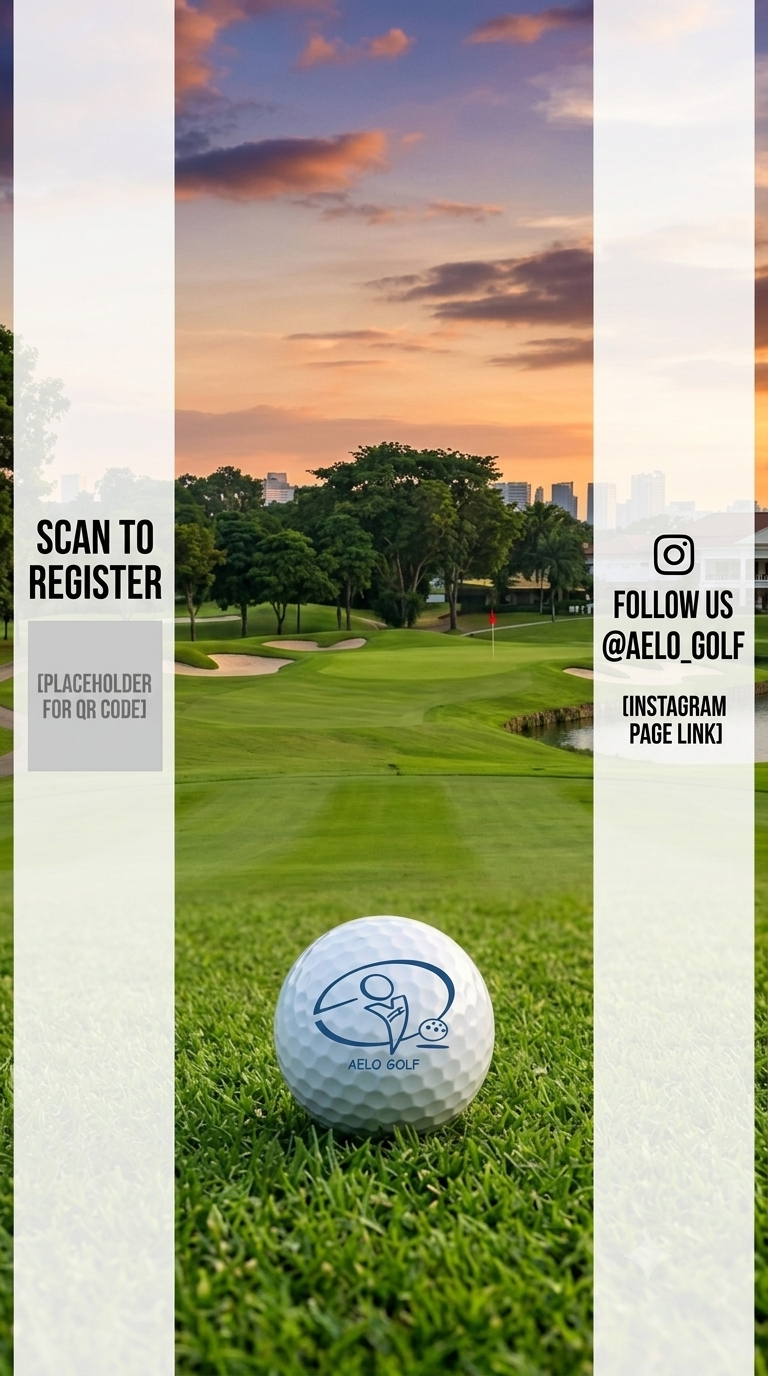
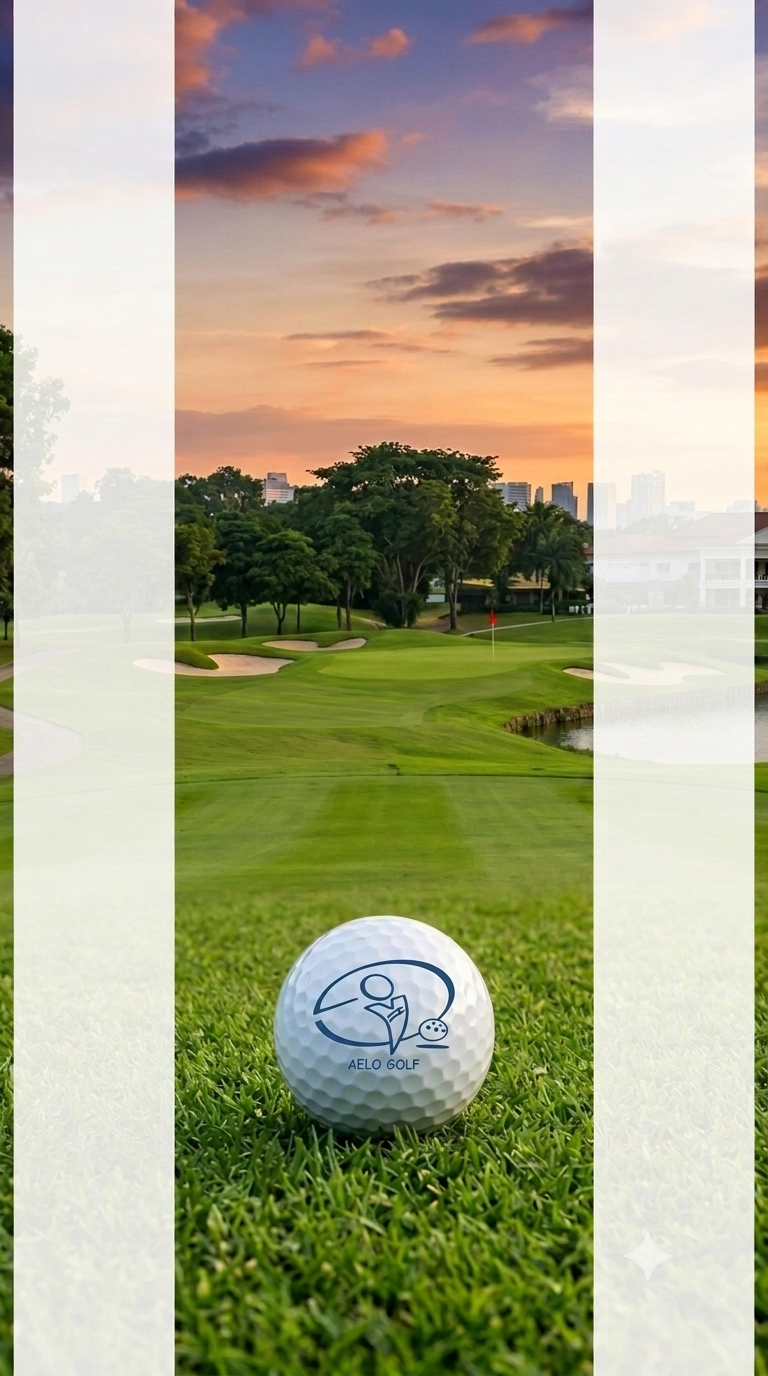
update side panels, background images, and countdown font colour.

Changed region(s): [[0.0312, 0.375, 0.2188, 0.5625], [0.7812, 0.375, 0.9688, 0.5625]]

diff --git a/index.html b/index.html
@@ -134,10 +134,10 @@
             font-size: 1.2rem;
             font-weight: 700;
             letter-spacing: 5px;
-            color: #FFD700; /* Sunset Gold */
+            color: #ffffff; 
             margin-top: 10px;
             text-transform: uppercase;
-            text-shadow: 0 0 8px rgba(255, 215, 0, 0.6);
+            text-shadow: 2px 2px 6px rgba(0, 0, 0, 0.9), 0 0 15px rgba(0, 0, 0, 0.5);
         }
 
         /* Accelerated pulsing kinetic speed loop */
@@ -149,6 +149,99 @@
                 text-shadow: 0 0 12px #fff, 0 0 25px rgba(255, 215, 0, 1), 0 0 40px rgba(255, 215, 0, 0.8);
             }
         }
+
+       /* --- 📝 SIDE COLUMNS FRAMEWORK --- */
+        .side-panel {
+            position: absolute;
+            top: 50%; /* Centers vertically */
+            transform: translateY(-50%);
+            width: 25%; /* Fits perfectly inside your white transparent columns */
+            display: flex;
+            flex-direction: column;
+            align-items: center;
+            text-align: center;
+            z-index: 10;
+        }
+
+        .left-panel {
+            left: 0;
+        }
+
+        .right-panel {
+            right: 0;
+        }
+
+        /* Bold, condensed text matching your reference */
+        .column-text-left {
+            font-family: "Impact", "Arial Black", "Segoe UI Black", sans-serif;
+            font-size: clamp(1.5rem, 3vw, 1.2rem);
+            line-height: 1.05;
+            color: #000000;
+            letter-spacing: 0.5px;
+        }
+        /* Different font sizing for left and right column text */
+        .column-text-right {
+            font-family: "Impact", "Arial Black", "Segoe UI Black", sans-serif;
+            font-size: clamp(1rem, 3vw, 1.1rem);
+            line-height: 1.05;
+            color: #000000;
+            letter-spacing: 0.5px;
+        }
+
+        /* --- ⬅️ LEFT COLUMN STYLES --- */
+ 
+
+        .register-link-group {
+            display: flex;
+            flex-direction: column;
+            align-items: center;
+            text-decoration: none; 
+            color: inherit;
+            cursor: pointer;
+            transition: transform 0.2s ease;
+        }
+
+        .register-link-group:hover {
+            transform: scale(1.05); /* Slight pop effect on hover */
+        }
+
+        .register-icon {
+            width: clamp(45px, 7vw, 65px);
+            height: clamp(45px, 7vw, 65px);
+            margin-top: 12px;
+            fill: none;
+            stroke: #000000;
+            stroke-width: 2;
+            stroke-linecap: round;
+            stroke-linejoin: round;
+        }
+
+        /* --- ➡️ RIGHT COLUMN STYLES --- */
+        .insta-link-group {
+            display: flex;
+            flex-direction: column;
+            align-items: center;
+            text-decoration: none; /* Removes the default blue underline from links */
+            color: inherit;
+            cursor: pointer;
+            transition: transform 0.2s ease;
+        }
+
+        .insta-link-group:hover {
+            transform: scale(1.05); /* Slight pop effect on hover */
+        }
+
+        .insta-icon {
+            width: clamp(40px, 6vw, 60px);
+            height: clamp(40px, 6vw, 60px);
+            margin-bottom: 12px;
+            fill: none;
+            stroke: #000000;
+            stroke-width: 2;
+            stroke-linecap: round;
+            stroke-linejoin: round;
+        }
+
     </style>
 </head>
 <body>
@@ -166,6 +259,39 @@
         <div class="counter-overlay-box">
             <h1 class="dynamic-number" id="days-count">--</h1>
             <p class="dynamic-label" id="days-label">Days To Go</p>
+        </div>
+
+        <!-- ⬅️ LEFT COLUMN: Registration -->
+        <div class="side-panel left-panel">
+            <a href="https://form.gov.sg/6a424307fb2b9992c94bbd02" target="_blank" rel="noopener noreferrer" class="register-link-group">
+
+                <div class="column-text-left">REGISTER<br>HERE!</div>
+            
+                <!-- SVG Clipboard/Form Icon -->
+                <svg xmlns="http://www.w3.org/2000/svg" viewBox="0 0 24 24" class="register-icon">
+                    <path d="M14 2H6a2 2 0 0 0-2 2v16a2 2 0 0 0 2 2h12a2 2 0 0 0 2-2V8z"></path>
+                    <polyline points="14 2 14 8 20 8"></polyline>
+                    <line x1="16" y1="13" x2="8" y2="13"></line>
+                    <line x1="16" y1="17" x2="8" y2="17"></line>
+                    <polyline points="10 9 9 9 8 9"></polyline>
+                </svg>
+
+            </a>
+        </div>
+
+        <!-- ➡️ RIGHT COLUMN: Instagram -->
+        <div class="side-panel right-panel">
+            <!-- Clickable Instagram Group -->
+            <a href="https://www.instagram.com/aelo_golf?igsh=MXRjaXR4MDBrcWNkZw==" target="_blank" rel="noopener noreferrer" class="insta-link-group">
+                <!-- SVG Instagram Icon -->
+                <svg xmlns="http://www.w3.org/2000/svg" viewBox="0 0 24 24" class="insta-icon">
+                    <rect x="2" y="2" width="20" height="20" rx="5" ry="5"></rect>
+                    <path d="M16 11.37A4 4 0 1 1 12.63 8 4 4 0 0 1 16 11.37z"></path>
+                    <line x1="17.5" y1="6.5" x2="17.51" y2="6.5"></line>
+                </svg>
+                
+                <div class="column-text-right">FOLLOW US<br>@AELO_GOLF</div>
+            </a>
         </div>
 
     </div>
@@ -197,10 +323,10 @@
             labelDOM.innerText = "Day To Go";
         } else if (totalDaysRemaining === 0) {
             numberDOM.innerText = "🎉";
-            labelDOM.innerText = "It's Dinner Day!";
+            labelDOM.innerText = "It's AELO Golf Day!";
         } else {
             numberDOM.innerText = "00";
-            labelDOM.innerText = "Event Concluded";
+            labelDOM.innerText = "See You At Next Year's Par-Tee!";
         }
     }
 